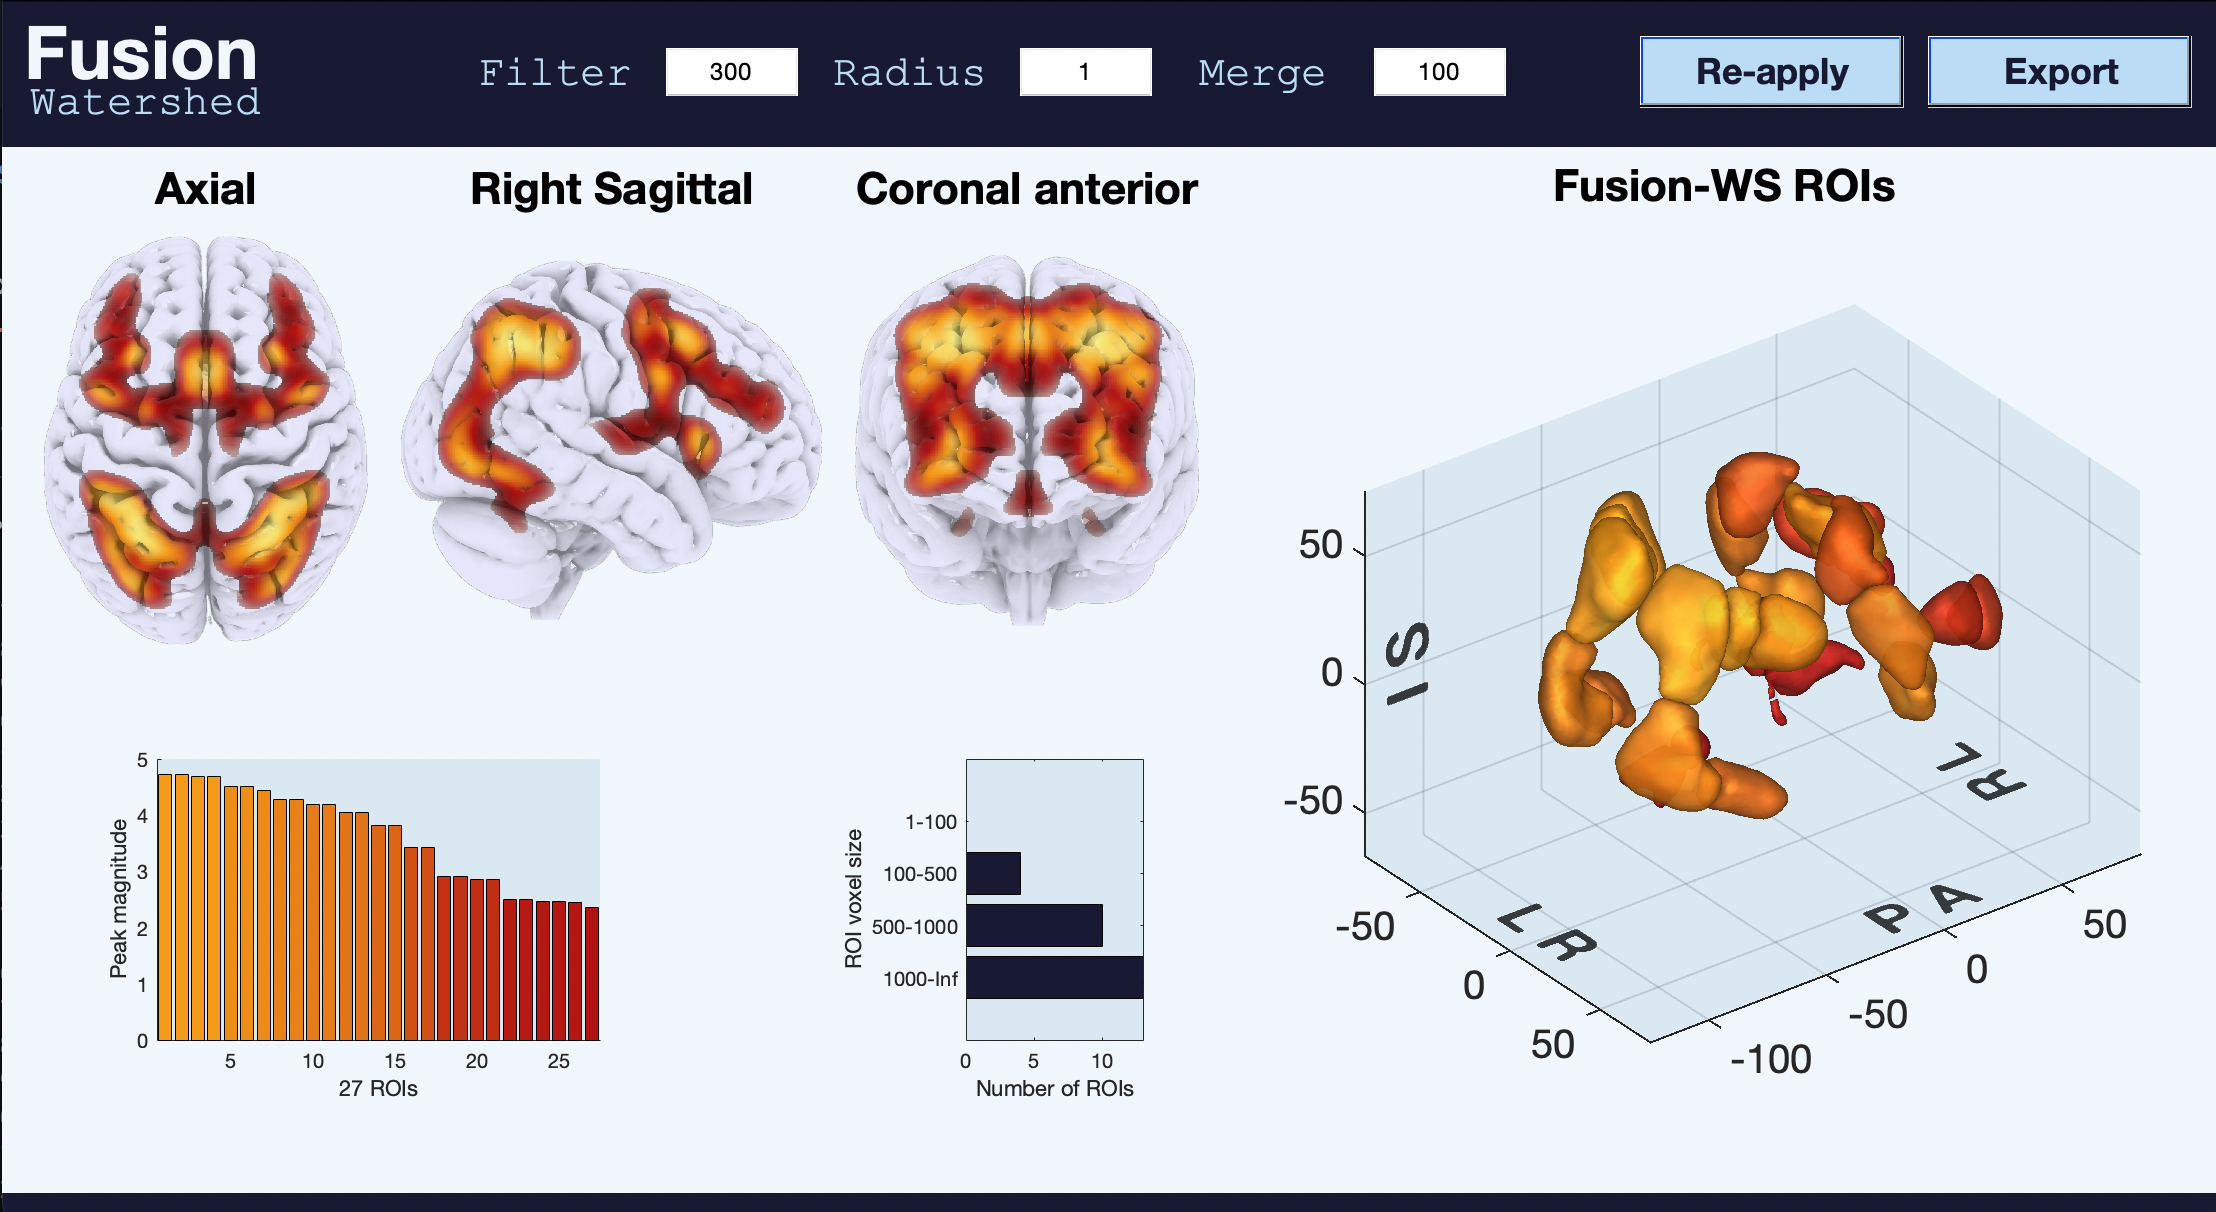
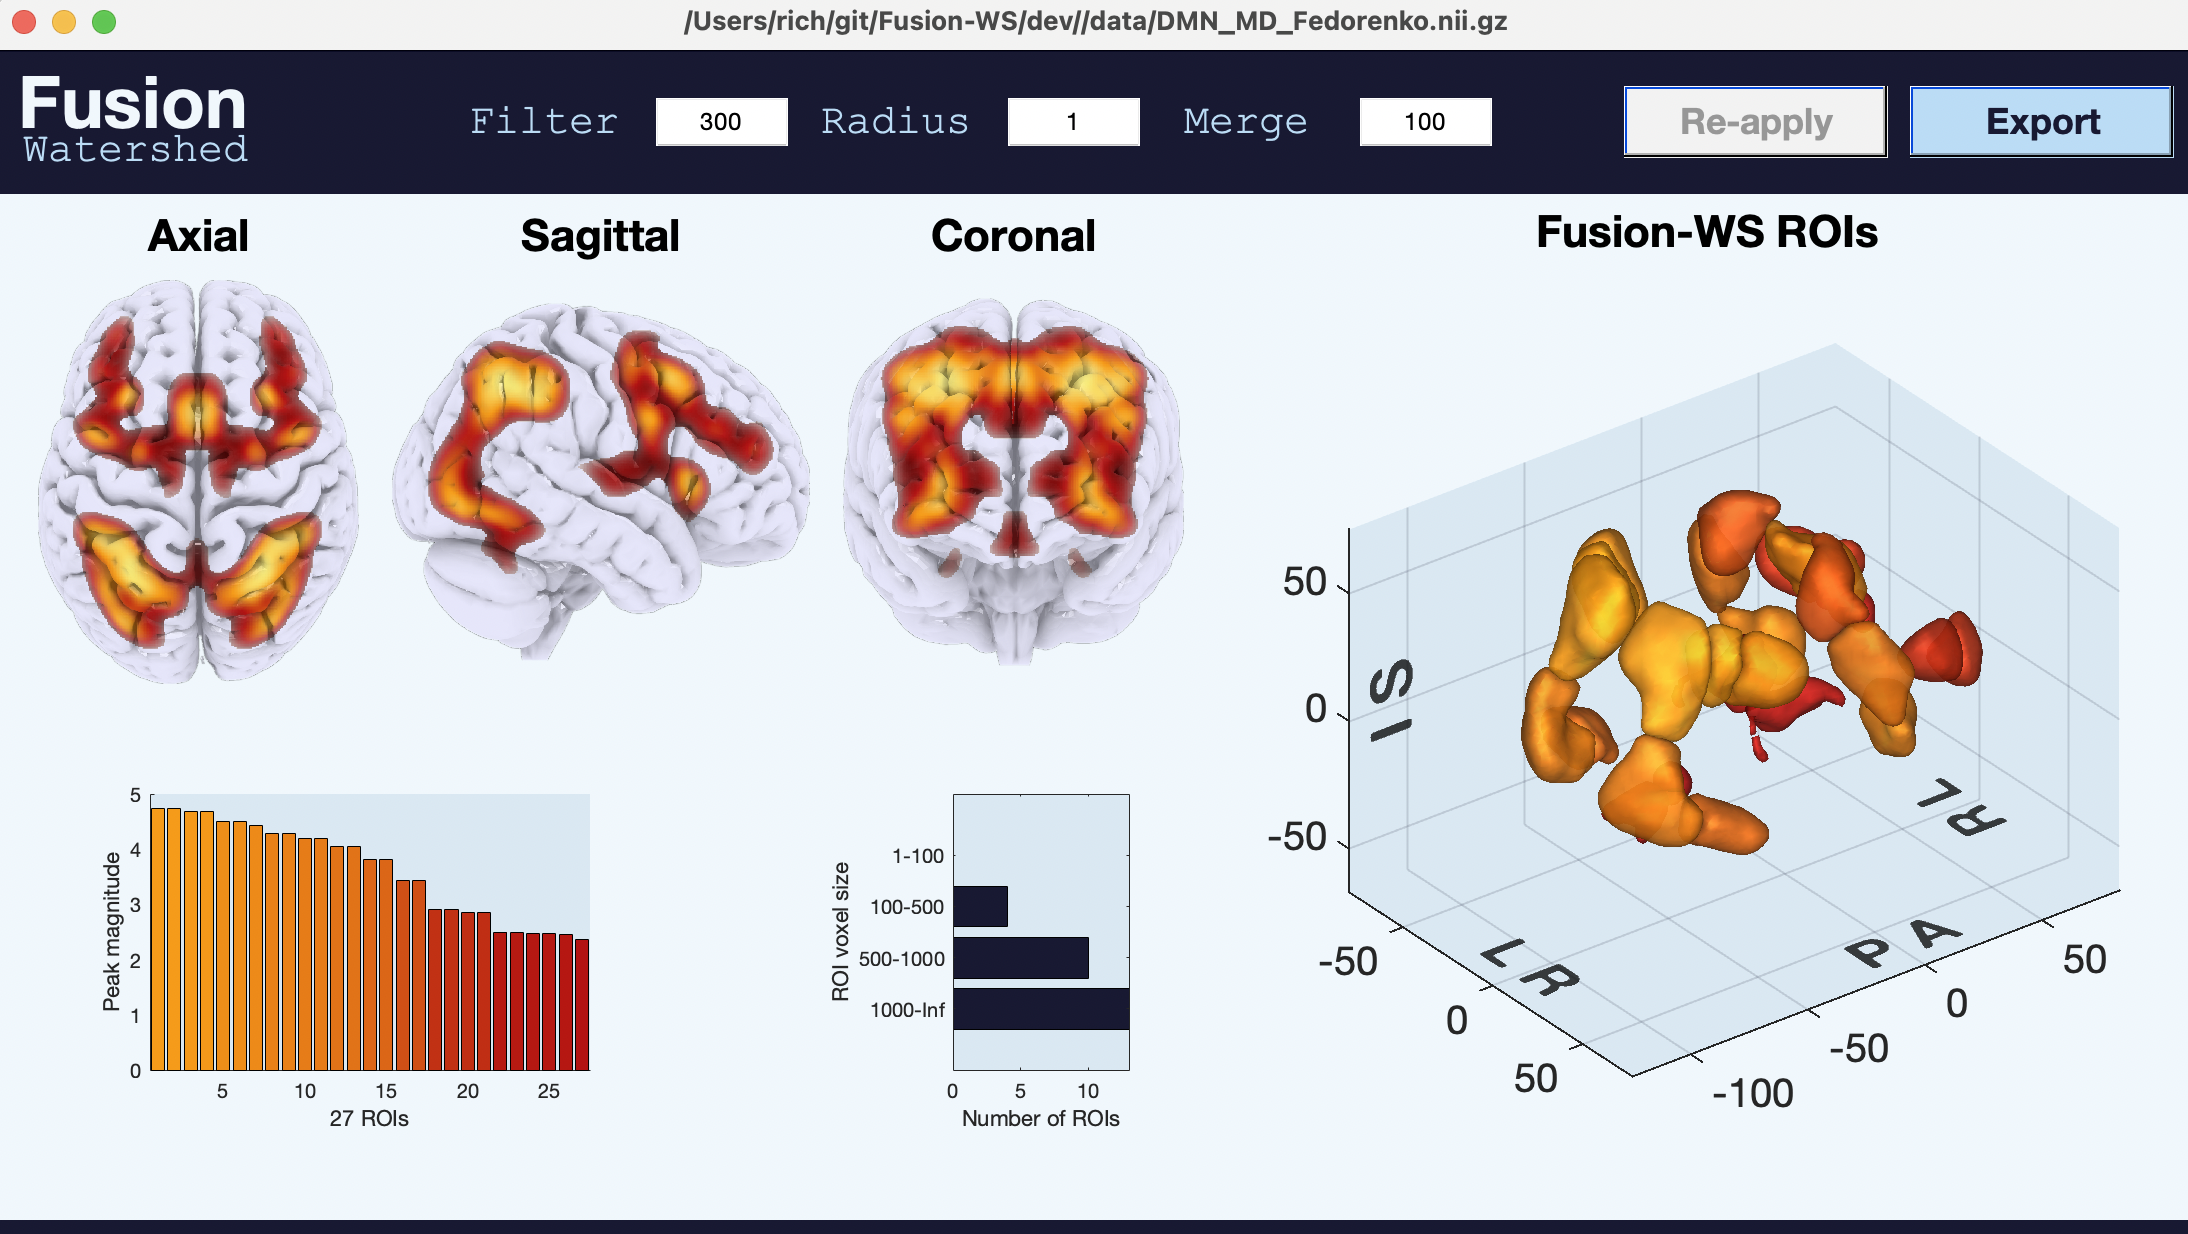
Auto push: Wed  1 Jun 2022 10:03:39 BST

diff --git a/matlab-fws/+plot/interactive.m b/matlab-fws/+plot/interactive.m
@@ -139,7 +139,7 @@ end
 
 
 % fill panels 
-titles = ["Axial";"Right Sagittal";"Coronal anterior"];
+titles = ["Axial";"Sagittal";"Coronal"];
 
 for ii=1:3
     plot.mip_blend(AX{ii},tmp{ii});
